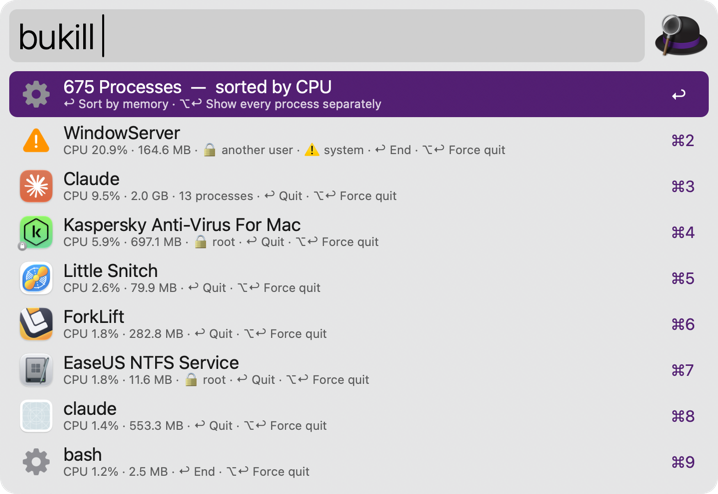
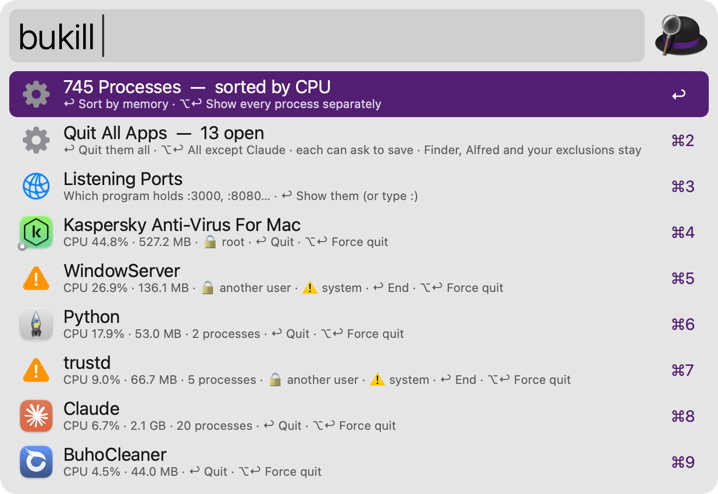
Burrow 1.5.0: Ports view and Quit All in bukill
- Ports: listening ports with the program behind each; end, force quit, open in
  browser, reveal, copy PID; show every user's with one admin/Touch ID prompt
- Quit All Apps (or all except the frontmost) with exclusions setting
- README, CHANGELOG and tests

diff --git a/src/burrow.py b/src/burrow.py
@@ -1341,6 +1341,10 @@ def process_view():
 
 
 def cmd_processes(query):
+    q = query.strip()
+    low = q.lower()
+    if q.startswith(":") or low in ("port", "ports") or low.startswith(("port ", "ports ")):
+        return cmd_ports(q[1:] if q.startswith(":") else q.split(None, 1)[1] if " " in q else "")
     view = process_view()
     procs = engine.list_processes()
     if view["group"]:
@@ -1353,6 +1357,9 @@ def cmd_processes(query):
     rows.sort(key=key)
     q = query.strip()
     items = []
+    if q.isdigit():  # a port number comes before PIDs that start with it
+        items += [port_item(r) for r in engine.listening_ports()[0] if r["port"] == int(q)]
+    ports_found = len(items)
     if not q:
         other = "memory" if view["sort"] == "cpu" else "CPU"
         items.append(item(
@@ -1366,6 +1373,9 @@ def cmd_processes(query):
             },
             uid="processes-summary",
         ))
+        items.append(quit_all_item())
+        items.append(item("Listening Ports", "Which program holds :3000, :8080… · ↩ Show them (or type :)",
+                          icon("network"), valid=False, autocomplete=":", uid="processes-ports"))
     shown = 0
     for r in rows:
         if q.isdigit():
@@ -1403,9 +1413,85 @@ def cmd_processes(query):
             text={"copy": r["path"], "largetype": "{}\nPID {}\n{}".format(r["name"], ", ".join(str(p) for p in r["pids"][:40]), r["path"])},
             quicklook=None,
         ))
-    if q and not shown:
+    if q and not shown and not ports_found:
         items.append(item("No Matching Process", "Type part of a name, a PID, or a path with /", icon("search"), valid=False))
     emit(items)
+
+
+def port_item(r):
+    name = os.path.basename(r["app"])[:-4] if r["app"] else r["command"]
+    others = r["uid"] is not None and r["uid"] != os.getuid()
+    details = [r["proto"], ", ".join(r["addresses"]), "PID {}".format(r["pid"])]
+    if r["app"] and name != r["command"]:
+        details.append(r["command"])
+    if others:
+        details.append("🔒 " + ("root" if r["uid"] == 0 else "another user"))
+    if r["system"]:
+        details.append("⚠ part of macOS")
+    url = "http://localhost:{}".format(r["port"])
+    payload = {"pids": [r["pid"]], "pid": r["pid"], "path": r["path"] or r["command"], "app": None, "name": name, "critical": r["system"]}
+    return item(
+        ":{}  —  {}".format(r["port"], name),
+        " · ".join(details + ["↩ End", "fn↩ Open in browser"]),
+        file_icon(r["app"]) if r["app"] else icon("warning" if r["system"] else "network"),
+        act("proc_quit", name, force=False, **payload),
+        mods={
+            "alt": mod("Force quit — unsaved changes are lost" + (" · 🔒 asks for your password" if others else ""),
+                       act("proc_quit", name, force=True, **payload)),
+            "cmd": mod("Reveal the program in Finder", act("reveal", r["path"])) if r["path"] else mod("Program path unknown", {}, valid=False),
+            "ctrl": mod("Copy the PID ({})".format(r["pid"]), act("copy", str(r["pid"]))),
+            "fn": mod("Open {} in your browser".format(url), act("open", url)),
+        },
+        text={"copy": "localhost:{}".format(r["port"]), "largetype": "{}\n:{} · PID {}\n{}".format(name, r["port"], r["pid"], r["path"])},
+    )
+
+
+def cmd_ports(query):
+    rows, all_users = engine.listening_ports()
+    q = query.strip()
+    shown = [r for r in rows if not q or (q.isdigit() and str(r["port"]).startswith(q)) or matches(q, r["command"], r["app"] or "", str(r["port"]))]
+    items = [item("..", "Back to all processes", icon("back"), valid=False, autocomplete="")]
+    items.append(item(
+        "{}  —  {}".format(plural(len(rows), "Listening Port"), "every user" if all_users else "yours only"),
+        "Every user's ports are shown for a couple of minutes" if all_users
+        else "Other users' programs (root…) are hidden without your password · ↩ Show all (asks for your password)",
+        icon("network"), None if all_users else act("ports_all"), valid=not all_users, uid="ports-summary",
+    ))
+    items += [port_item(r) for r in shown]
+    if not shown:
+        items.append(item("No Listening Ports" if not q else "No Matching Port", "Nothing is waiting for connections" if not q else "Type a port number or a program name", icon("check"), valid=False))
+    emit(items)
+
+
+def quit_all_item():
+    apps = engine.foreground_apps()
+    exclude = os.environ.get("quit_exclude", "")
+    every = engine.apps_to_quit(apps, False, exclude)
+    others = engine.apps_to_quit(apps, True, exclude)
+    front = next((a["name"] for a in apps if a["front"]), None)
+    return item(
+        "Quit All Apps  —  {} open".format(len(every)),
+        "↩ Quit them all · ⌥↩ All except {} · each can ask to save · Finder, Alfred and your exclusions stay".format(front or "the front app"),
+        icon("process"), act("quit_all", "", except_front=False),
+        mods={"alt": mod("Quit {} (all except {})".format(plural(len(others), "app"), front or "the front app"), act("quit_all", "", except_front=True))},
+        uid="processes-quit-all",
+    )
+
+
+def quit_all(except_front):
+    apps = engine.apps_to_quit(engine.foreground_apps(), except_front, os.environ.get("quit_exclude", ""))
+    if not apps:
+        return "No apps to quit"
+    names = ", ".join(a["name"] for a in apps[:20]) + ("…" if len(apps) > 20 else "")
+    if not confirm("Quit {}?".format(plural(len(apps), "app")),
+                   "{}\n\nEach app quits normally, so ones with unsaved changes can ask you to save.".format(names), "Quit All"):
+        return None
+    alive = engine.quit_apps(apps)
+    done = len(apps) - len(alive)
+    msg = "Quit {}".format(plural(done, "app"))
+    if alive:
+        msg += " · still open: {} (may be asking to save)".format(", ".join(a["name"] for a in alive[:6]))
+    return msg
 
 
 def proc_quit(p, force):
@@ -2288,6 +2374,11 @@ def dispatch(action, target, p):
         if msg:
             alfred_search(KEYWORDS["processes"] + " ")
         return msg
+    elif action == "quit_all":
+        return quit_all(bool(p.get("except_front")))
+    elif action == "ports_all":
+        if engine.load_all_ports():
+            alfred_search(KEYWORDS["processes"] + " :")
     elif action == "proc_restart":
         return proc_restart(p)
     elif action == "proc_view":

diff --git a/src/engine.py b/src/engine.py
@@ -2680,6 +2680,132 @@ def process_matches(pid, path):
     return bool(comm) and (comm == path or comm.startswith(path.rstrip("/") + "/"))
 
 
+SYSTEM_PREFIXES = ("/System/", "/usr/libexec/", "/usr/sbin/", "/sbin/", "/usr/bin/", "/Library/Apple/")
+LSOF_PORTS = ["/usr/sbin/lsof", "-nP", "-iTCP", "-sTCP:LISTEN", "-F", "pcuPn"]
+
+
+def parse_lsof_ports(text):
+    """`lsof -F pcuPn` output -> [{port, pid, uid, command, proto, addresses}], one per port and process."""
+    rows, pid, cmd, uid, proto = {}, None, "", None, "TCP"
+    for line in text.splitlines():
+        if not line:
+            continue
+        tag, val = line[0], line[1:]
+        if tag == "p":
+            pid = int(val) if val.isdigit() else None
+        elif tag == "c":
+            cmd = val
+        elif tag == "u":
+            uid = int(val) if val.isdigit() else None
+        elif tag == "P":
+            proto = val
+        elif tag == "n" and pid is not None and ":" in val and "->" not in val:
+            addr, _, port = val.rpartition(":")
+            if not port.isdigit():
+                continue
+            key = (int(port), pid, proto)
+            row = rows.setdefault(key, {"port": int(port), "pid": pid, "uid": uid, "command": cmd, "proto": proto, "addresses": []})
+            addr = addr.strip("[]") or "*"
+            if addr not in row["addresses"]:
+                row["addresses"].append(addr)
+    return sorted(rows.values(), key=lambda r: (r["port"], r["pid"]))
+
+
+PORTS_ADMIN = "ports-admin.json"
+
+
+def listening_ports():
+    """Listening TCP ports with the program behind each. Without admin rights lsof only
+    sees your own processes; after "Show all" (one password or Touch ID prompt) every
+    user's are shown for a couple of minutes. Returns (rows, all_users)."""
+    snap = load_state(PORTS_ADMIN)
+    all_users = time.time() - snap.get("t", 0) < 120 and bool(snap.get("out"))
+    rows = parse_lsof_ports(snap["out"] if all_users else sh(LSOF_PORTS))
+    paths = {p["pid"]: p for p in _ps_processes()}
+    for r in rows:
+        proc = paths.get(r["pid"], {})
+        r["path"] = proc.get("path", "")
+        r["uid"] = r["uid"] if r["uid"] is not None else proc.get("uid")
+        r["app"] = app_bundle_of(r["path"])
+        r["system"] = r["path"].startswith(SYSTEM_PREFIXES) or r["command"] in CRITICAL_PROCESSES
+    return rows, all_users
+
+
+def load_all_ports():
+    """Read every user's listening ports once, with the administrator prompt."""
+    ok, out = run_as_admin(" ".join(LSOF_PORTS), "Burrow needs your password to see every user's open ports.")
+    if ok is None:
+        return None
+    save_state(PORTS_ADMIN, {"t": time.time(), "out": out})
+    return True
+
+
+def foreground_apps():
+    """Open apps that have a Dock icon (not menu bar agents or background helpers):
+    [{name, bundle_id, path, pid, front}]."""
+    front = sh(["/usr/bin/lsappinfo", "front"]).strip().rstrip(":")
+    apps, cur = [], None
+    for line in sh(["/usr/bin/lsappinfo", "list"]).splitlines():
+        m = re.match(r'\s*\d+\) "(.*)" (ASN:[0-9a-fx]+-[0-9a-fx]+)', line)
+        if m:
+            cur = {"name": m.group(1), "asn": m.group(2), "bundle_id": "", "path": "", "pid": None, "type": ""}
+            apps.append(cur)
+            continue
+        if cur is None:
+            continue
+        for key, pattern in (("bundle_id", r'bundleID="([^"]*)"'), ("path", r'bundle path="([^"]*)"'), ("type", r'type="([^"]*)"')):
+            m = re.search(pattern, line)
+            if m:
+                cur[key] = m.group(1)
+        m = re.search(r"\bpid = (\d+)", line)
+        if m:
+            cur["pid"] = int(m.group(1))
+    out = []
+    for a in apps:
+        if a["type"] == "Foreground" and a["pid"]:
+            out.append({"name": a["name"], "bundle_id": a["bundle_id"], "path": a["path"], "pid": a["pid"], "front": a["asn"] == front})
+    return out
+
+
+# Never quit by "Quit All": they're what you're using to quit, or quitting them logs you out
+QUIT_ALL_KEEP = {"com.apple.finder", "com.runningwithcrayons.Alfred", "io.github.burrow-alfred.companion", "com.apple.loginwindow"}
+
+
+def apps_to_quit(apps, except_front=False, exclude=""):
+    keep = {x.strip().lower() for x in exclude.split(",") if x.strip()}
+    out = []
+    for a in apps:
+        if a["bundle_id"] in QUIT_ALL_KEEP or (except_front and a["front"]):
+            continue
+        if a["name"].lower() in keep or a["bundle_id"].lower() in keep:
+            continue
+        out.append(a)
+    return out
+
+
+def quit_apps(apps, wait=10):
+    """Ask apps to quit all at once (each can still ask to save), then wait.
+    Returns the ones still open."""
+    lines = ["on run argv", "ignoring application responses", "repeat with b in argv",
+             "try", "tell application id (b as text) to quit", "end try", "end repeat", "end ignoring", "end run"]
+    cmd = ["/usr/bin/osascript"]
+    for line in lines:
+        cmd += ["-e", line]
+
+    def ask(targets):
+        subprocess.run(cmd + [a["bundle_id"] for a in targets if a["bundle_id"]], stdout=subprocess.DEVNULL, stderr=subprocess.DEVNULL, timeout=30)
+    ask(apps)
+    start = time.time()
+    alive, asked_again = list(apps), False
+    while alive and time.time() - start < wait:
+        time.sleep(0.5)
+        alive = [a for a in alive if _pid_alive(a["pid"])]
+        if alive and not asked_again and time.time() - start > 3:
+            ask(alive)  # an app that was still starting up may have missed the first request
+            asked_again = True
+    return alive
+
+
 def signal_processes(pids, sig, prompt):
     """Send a signal; processes owned by another user (root…) go through the macOS
     password prompt. Returns (still running pids, cancelled)."""

diff --git a/tests/test_processes.py b/tests/test_processes.py
@@ -80,5 +80,81 @@ class EndTest(unittest.TestCase):
         self.assertIsNone(self.proc.poll())
 
 
+LSOF_SAMPLE = """p100
+cnode
+u501
+f20
+PTCP
+n127.0.0.1:3000
+f21
+PTCP
+n[::1]:3000
+p200
+cControlCenter
+u501
+f9
+PTCP
+n*:7000
+"""
+
+
+class PortsTest(unittest.TestCase):
+    def test_parse_merges_addresses(self):
+        rows = engine.parse_lsof_ports(LSOF_SAMPLE)
+        self.assertEqual([(r["port"], r["pid"], r["command"]) for r in rows], [(3000, 100, "node"), (7000, 200, "ControlCenter")])
+        self.assertEqual(rows[0]["addresses"], ["127.0.0.1", "::1"])
+        self.assertEqual(rows[1]["addresses"], ["*"])
+
+    def test_real_server_shows_up_and_ends(self):
+        burrow.confirm = lambda *a, **k: True
+        burrow.alfred_search = lambda *a, **k: None
+        server = subprocess.Popen([sys.executable, "-c",
+                                   "import socket,time; s=socket.socket(); s.bind(('127.0.0.1',0)); s.listen(); "
+                                   "print(s.getsockname()[1], flush=True); time.sleep(300)"], stdout=subprocess.PIPE)
+        try:
+            port = int(server.stdout.readline())
+            row = next((r for r in engine.listening_ports()[0] if r["port"] == port), None)
+            self.assertIsNotNone(row, "the test server's port is listed")
+            self.assertEqual(row["pid"], server.pid)
+            self.assertFalse(row["system"])
+            item = burrow.port_item(row)
+            self.assertEqual(item["mods"]["fn"]["variables"]["target"], "http://localhost:{}".format(port))
+            payload = {k: v for k, v in __import__("json").loads(item["variables"]["payload"]).items()}
+            self.assertEqual(burrow.proc_quit(payload, False), "Ended " + payload["name"])
+            server.wait(timeout=5)
+        finally:
+            if server.poll() is None:
+                server.kill()
+            server.wait()
+
+
+class QuitAllTest(unittest.TestCase):
+    APPS = [
+        {"name": "Finder", "bundle_id": "com.apple.finder", "path": "", "pid": 1, "front": False},
+        {"name": "Music", "bundle_id": "com.apple.Music", "path": "", "pid": 2, "front": False},
+        {"name": "Notes", "bundle_id": "com.apple.Notes", "path": "", "pid": 3, "front": True},
+        {"name": "Terminal", "bundle_id": "com.apple.Terminal", "path": "", "pid": 4, "front": False},
+    ]
+
+    def test_exclusions(self):
+        names = lambda apps: [a["name"] for a in apps]  # noqa: E731
+        self.assertEqual(names(engine.apps_to_quit(self.APPS)), ["Music", "Notes", "Terminal"])
+        self.assertEqual(names(engine.apps_to_quit(self.APPS, except_front=True)), ["Music", "Terminal"])
+        self.assertEqual(names(engine.apps_to_quit(self.APPS, exclude="music, com.apple.terminal")), ["Notes"])
+
+    def test_quits_a_real_app(self):
+        subprocess.run(["/usr/bin/open", "-g", "-a", "Calculator"])
+        calc = None
+        for _ in range(20):
+            calc = next((a for a in engine.foreground_apps() if a["bundle_id"] == "com.apple.calculator"), None)
+            if calc:
+                break
+            time.sleep(0.25)
+        self.assertIsNotNone(calc, "Calculator is listed as an open app")
+        time.sleep(1.5)  # let it finish launching
+        self.assertEqual(engine.quit_apps([calc]), [])
+        self.assertFalse(any(a["bundle_id"] == "com.apple.calculator" for a in engine.foreground_apps()))
+
+
 if __name__ == "__main__":
     unittest.main()

diff --git a/build.py b/build.py
@@ -231,6 +231,13 @@ def build_plist(icon_for):
                 "config": {"default": "3", "pairs": [["1 Second", "1"], ["3 Seconds", "3"], ["5 Seconds", "5"]]},
             },
             {
+                "type": "textfield",
+                "variable": "quit_exclude",
+                "label": "Quit All Exclusions",
+                "description": "Apps Processes' “Quit All Apps” leaves open: names or bundle IDs, comma-separated. Finder, Alfred and Burrow Companion always stay.",
+                "config": {"default": "", "placeholder": "Music, com.apple.Terminal", "required": False, "trim": True},
+            },
+            {
                 "type": "checkbox",
                 "variable": "confirm_force",
                 "label": "Force Quit",

diff --git a/README.md b/README.md
@@ -129,6 +129,23 @@ See what's using your Mac's CPU and memory via the `bukill` keyword. CPU is meas
 * <kbd>⌘</kbd><kbd>↩</kbd> Reveal in Finder. <kbd>⌃</kbd><kbd>↩</kbd> Copy the path. <kbd>⌘</kbd><kbd>L</kbd> Show its PIDs.
 * On the top row, <kbd>↩</kbd> sorts by CPU or memory and <kbd>⌥</kbd><kbd>↩</kbd> groups or ungroups helper processes.
 
+**Quit All Apps** on the top row quits every open app normally, so apps with unsaved changes can ask you to save.
+
+* <kbd>↩</kbd> Quit all apps.
+* <kbd>⌥</kbd><kbd>↩</kbd> Quit all except the app you're using.
+
+Finder, Alfred and Burrow Companion always stay open. Add more under **Quit All Exclusions** in the Workflow’s Configuration (app names or bundle IDs, comma-separated). Burrow tells you which apps are still open afterwards.
+
+See which program holds a port via the `bukill` keyword followed by `:` (or `ports`), or type a port number. Each row shows the address and the program behind it.
+
+* <kbd>↩</kbd> End the program. <kbd>⌥</kbd><kbd>↩</kbd> Force quit it.
+* <kbd>fn</kbd><kbd>↩</kbd> Open `http://localhost:PORT` in your browser.
+* <kbd>⌘</kbd><kbd>↩</kbd> Reveal the program in Finder. <kbd>⌃</kbd><kbd>↩</kbd> Copy the PID. <kbd>⌘</kbd><kbd>C</kbd> Copy `localhost:PORT`.
+
+macOS only shows you your own programs' ports; press <kbd>↩</kbd> on the top row to see every user's, which asks for your password (or Touch ID). Ports held by parts of macOS, such as AirPlay's 5000 and 7000, are marked ⚠ and ask before ending.
+
+![Listening ports](images/about/ports.png)
+
 Processes owned by another user (🔒) ask for your password through the standard macOS prompt. Parts of macOS whose ending would log you out or freeze the Mac (⚠) get a warning first. If a process has already exited and its PID was reused, Burrow leaves the new process alone.
 
 ![Processes](images/about/processes.png)

diff --git a/CHANGELOG.md b/CHANGELOG.md
@@ -1,5 +1,10 @@
 # Changelog
 
+## 1.5.0
+
+- **Ports** in `bukill`: type `:` (or `ports`, or a port number) to see which program holds each listening port, then end or force quit it, open it in your browser, reveal it or copy its PID. Every user's ports can be shown after one password or Touch ID prompt, and ports held by parts of macOS are marked and ask first.
+- **Quit All Apps** in `bukill`: quit every open app normally (↩) or all except the one you're using (⌥↩). Finder, Alfred, Burrow Companion and a new **Quit All Exclusions** setting stay open, and Burrow lists any app still open afterwards.
+
 ## 1.4.2
 
 - **Touch ID for sudo** (`butouchid`) couldn't be turned on: macOS now only allows changing `/etc/pam.d` from Terminal, so Burrow showed a “Couldn't change” error. When macOS blocks it, Burrow opens Terminal with the command ready for your password.
